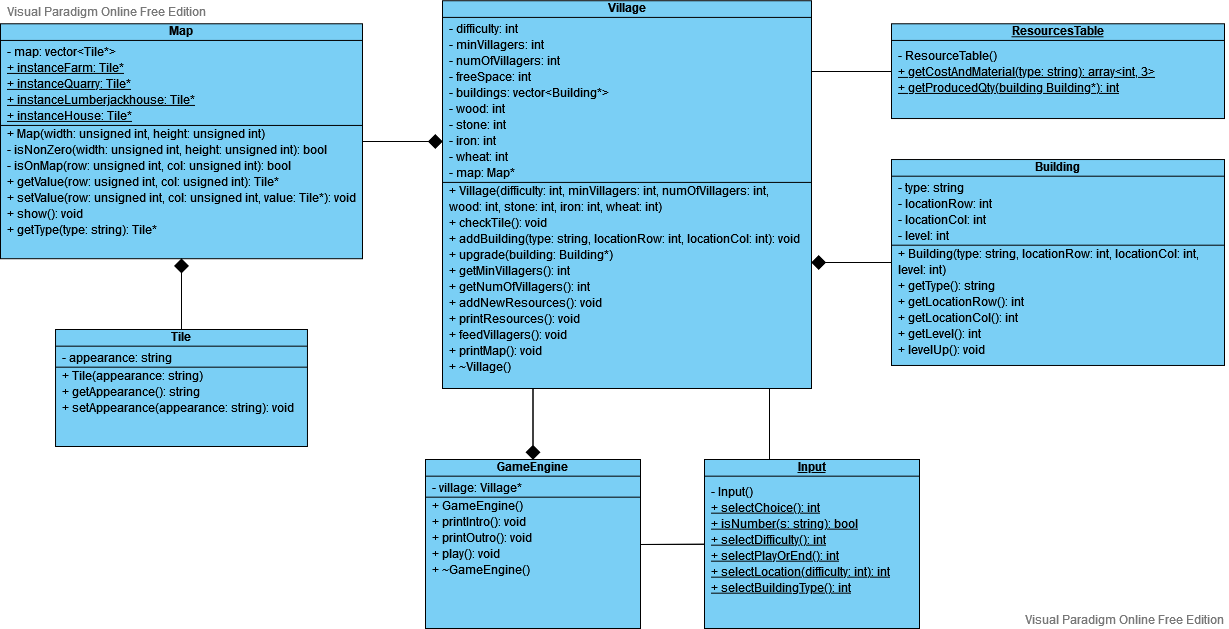
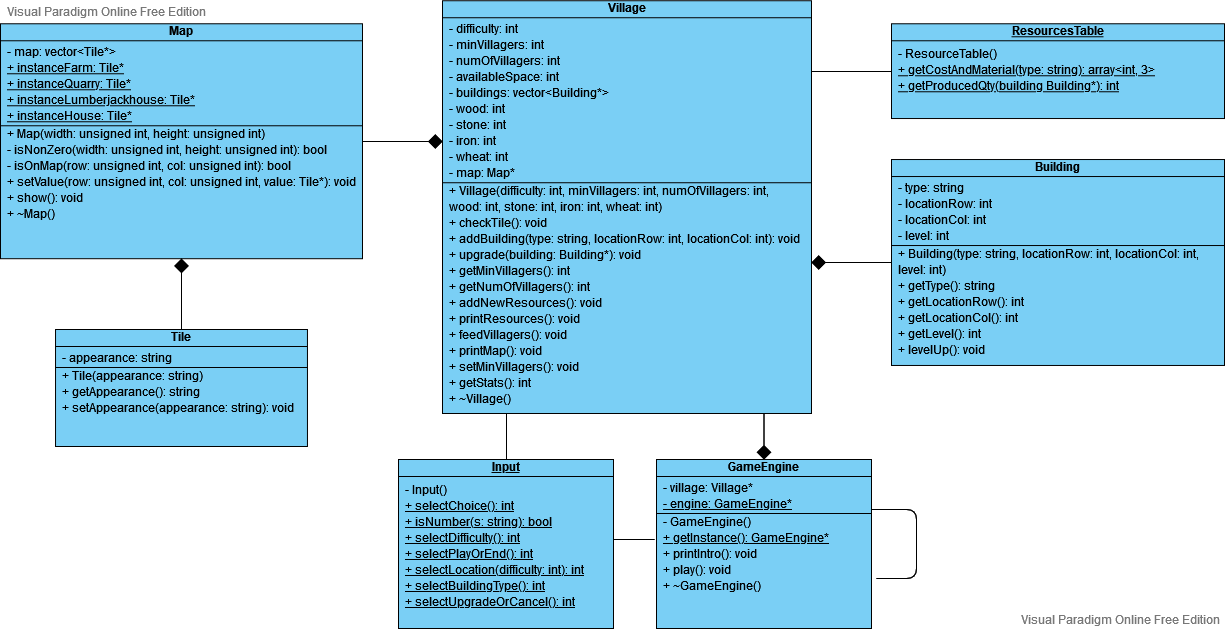
Uprava diagramu, destruktoru

diff --git a/Hra/Village.cpp b/Hra/Village.cpp
@@ -259,3 +259,10 @@ void Village::setMinVillagers() {
 int Village::getStats() const {
     return (1000 / m_availableSpace) * m_minVillagers * m_difficulty;
 }
+
+Village::~Village() {
+    delete m_map;
+    for (int i = 0; i < m_buildings.size(); ++i) {
+        delete m_buildings.at(i);
+    }
+}

diff --git a/Hra/GameEngine.h b/Hra/GameEngine.h
@@ -5,11 +5,11 @@
 
 class GameEngine {
     Village* m_village;
+    static GameEngine* s_engine;
     GameEngine();
 public:
-    static GameEngine* s_engine;
     static GameEngine* getInstance();
-    static void printIntro();
+    void printIntro();
     void play();
     ~GameEngine();
 };

diff --git a/Hra/Map.h b/Hra/Map.h
@@ -18,6 +18,7 @@ public:
     Map(unsigned int width, unsigned int height);
     void setValue(unsigned int row, unsigned int col, Tile *value);
     void show();
+    ~Map();
 };
 
 #endif //HRA_MAP_H

diff --git a/Hra/Village.h b/Hra/Village.h
@@ -35,6 +35,7 @@ public:
     void printMap(); //vykreslí na obrazovku mapu
     void setMinVillagers();
     int getStats() const;
+    ~Village();
 };
 
 

diff --git a/Hra/Map.cpp b/Hra/Map.cpp
@@ -53,3 +53,7 @@ void Map::show() {
         std::cout << "\n";
     }
 }
+
+Map::~Map() {
+
+}
